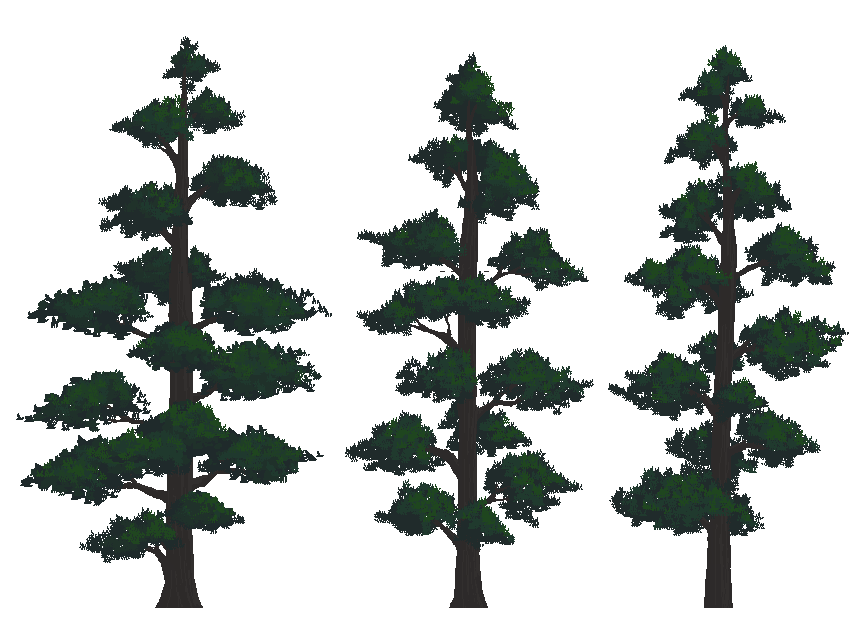
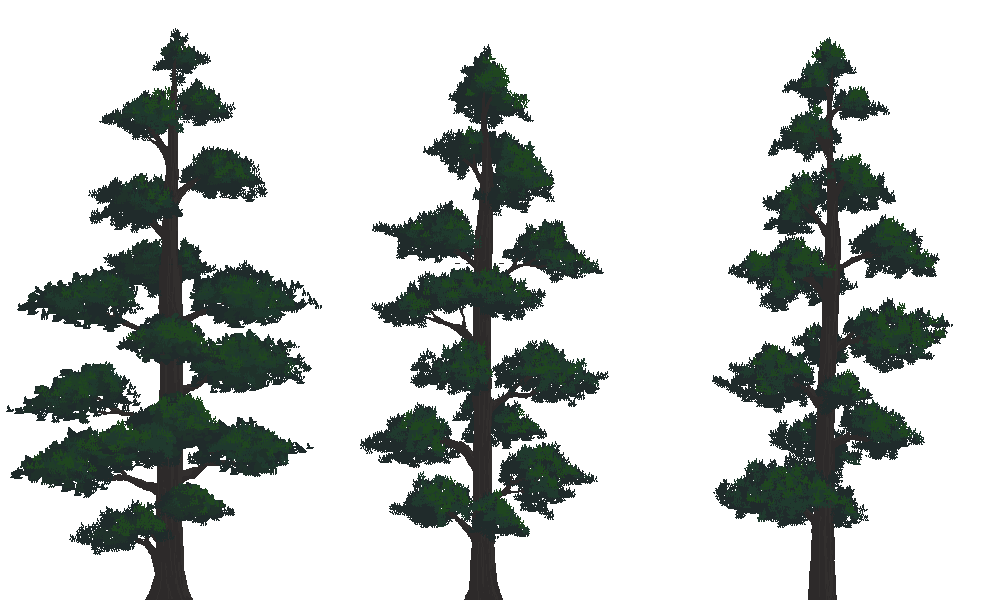
Add test parallax tree layer

Changed region(s): [[0.0, 0.03, 0.9942, 1.0]]

diff --git a/scenes/playable_scene.py b/scenes/playable_scene.py
@@ -1,3 +1,4 @@
+from typing import Tuple
 import pygame as pg
 import json
 import math
@@ -29,11 +30,19 @@ def make_scrollable(surface: pg.surface.Surface, scale_by_x=True):
     return pg.transform.smoothscale(new_surface, (w * scale, h * scale))
 
 
+class Image():
+    def __init__(self, image, x, y, *args, **kwargs):
+        self.image = image.convert_alpha()
+        # Tiled tile object shows coords as bottomleft
+        self.rect = self.image.get_rect(bottomleft=(x, y))
+
+
 class PlayableScene:
     def __init__(self, map_path):
         self.bg_img = make_scrollable(pg.image.load(
             get_path(__file__, 'assets/bg.png')))
 
+        self.parallax = []
         self.background = ShiftableGroup()
         # Collidable with player
         self.terrain = ShiftableGroup()
@@ -88,6 +97,15 @@ class PlayableScene:
                             if entity['name'] == 'player':
                                 self.player = Player(
                                     (entity['x'], entity['y']), (64, 64))
+
+                    elif layer['name'] == 'parallax':
+                        tree_sheet_parser = SheetParser(
+                            __file__, 'assets/trees.png')
+                        for img in layer['objects']:
+                            if img['name'].startswith('tree'):
+                                self.parallax.append(Image(tree_sheet_parser.load_image(
+                                    ((int(img['name'].split('_')[-1]) - 1), 0), (330, 600)), img['x'], img['y']))
+
                     elif layer['name'] == 'triggers':
                         for trigger in layer['objects']:
                             self.load_trigger(trigger)
@@ -95,7 +113,11 @@ class PlayableScene:
     def update(self, screen_surface):
         screen_surface.fill('black')
         screen_surface.blit(
-            self.bg_img, (0 + c_mod((self.shift[0] * 0.1), self.bg_img.get_width() / 2), 0))
+            self.bg_img, (c_mod((self.shift[0] * 0.1), self.bg_img.get_width() / 2), 0))
+
+        for img in self.parallax:
+            screen_surface.blit(
+                img.image, (img.rect.x + self.shift[0] * 0.9, img.rect.y))
 
         # Background
         self.background.draw(screen_surface, self.shift)

diff --git a/sprites/player/player.py b/sprites/player/player.py
@@ -9,18 +9,18 @@ import utils
 
 
 class Player(AnimatedHumanoid):
-    def __init__(self, pos, size):
+    def __init__(self, pos, scale):
         sheet_parser = utils.SheetParser(
             __file__, 'assets/player_sheet.png')
-        self.image = pg.Surface(size).convert_alpha()
+        self.image = pg.Surface(scale).convert_alpha()
 
-        self.animations = {'idle': sheet_parser.load_images_row((0, 0), 3, size),
-                           'attack': sheet_parser.load_images_row((0, 1), 4, size),
-                           'jump': sheet_parser.load_images_row((0, 2), 1, size),
-                           'fall': sheet_parser.load_images_row((0, 3), 1, size),
-                           'run': sheet_parser.load_images_row((0, 4), 3, size),
-                           'push': sheet_parser.load_images_row((0, 5), 3, size),
-                           'wall_slide': sheet_parser.load_images_row((0, 6), 1, size)}
+        self.animations = {'idle': sheet_parser.load_images_row((0, 0), 3, scale),
+                           'attack': sheet_parser.load_images_row((0, 1), 4, scale),
+                           'jump': sheet_parser.load_images_row((0, 2), 1, scale),
+                           'fall': sheet_parser.load_images_row((0, 3), 1, scale),
+                           'run': sheet_parser.load_images_row((0, 4), 3, scale),
+                           'push': sheet_parser.load_images_row((0, 5), 3, scale),
+                           'wall_slide': sheet_parser.load_images_row((0, 6), 1, scale)}
 
         self.jump_sound = pg.mixer.Sound(
             utils.get_path(__file__, 'assets/jump.wav'))

diff --git a/utils/sheet_parser.py b/utils/sheet_parser.py
@@ -8,7 +8,7 @@ class SheetParser:
             get_path(script_path, relative_path)).convert_alpha()
 
     # Pos comprises of (column, row)
-    def load_image(self, pos, scale=None, size=(32, 32)):
+    def load_image(self, pos, size=(32, 32), scale=None):
         image = pg.Surface(size, pg.SRCALPHA).convert_alpha()
         image.blit(self.sheet, (0, 0),
                    (pos[0] * size[0], pos[1] * size[1], pos[0] * size[0] + size[0], pos[1] * size[1] + size[1]))
@@ -20,7 +20,7 @@ class SheetParser:
         images = []
         for i in range(num_of_images):
             image = self.load_image(
-                (start_pos[0] + i, start_pos[1]), scale, size)
+                (start_pos[0] + i, start_pos[1]), size, scale)
             images.append(image)
 
         return images
